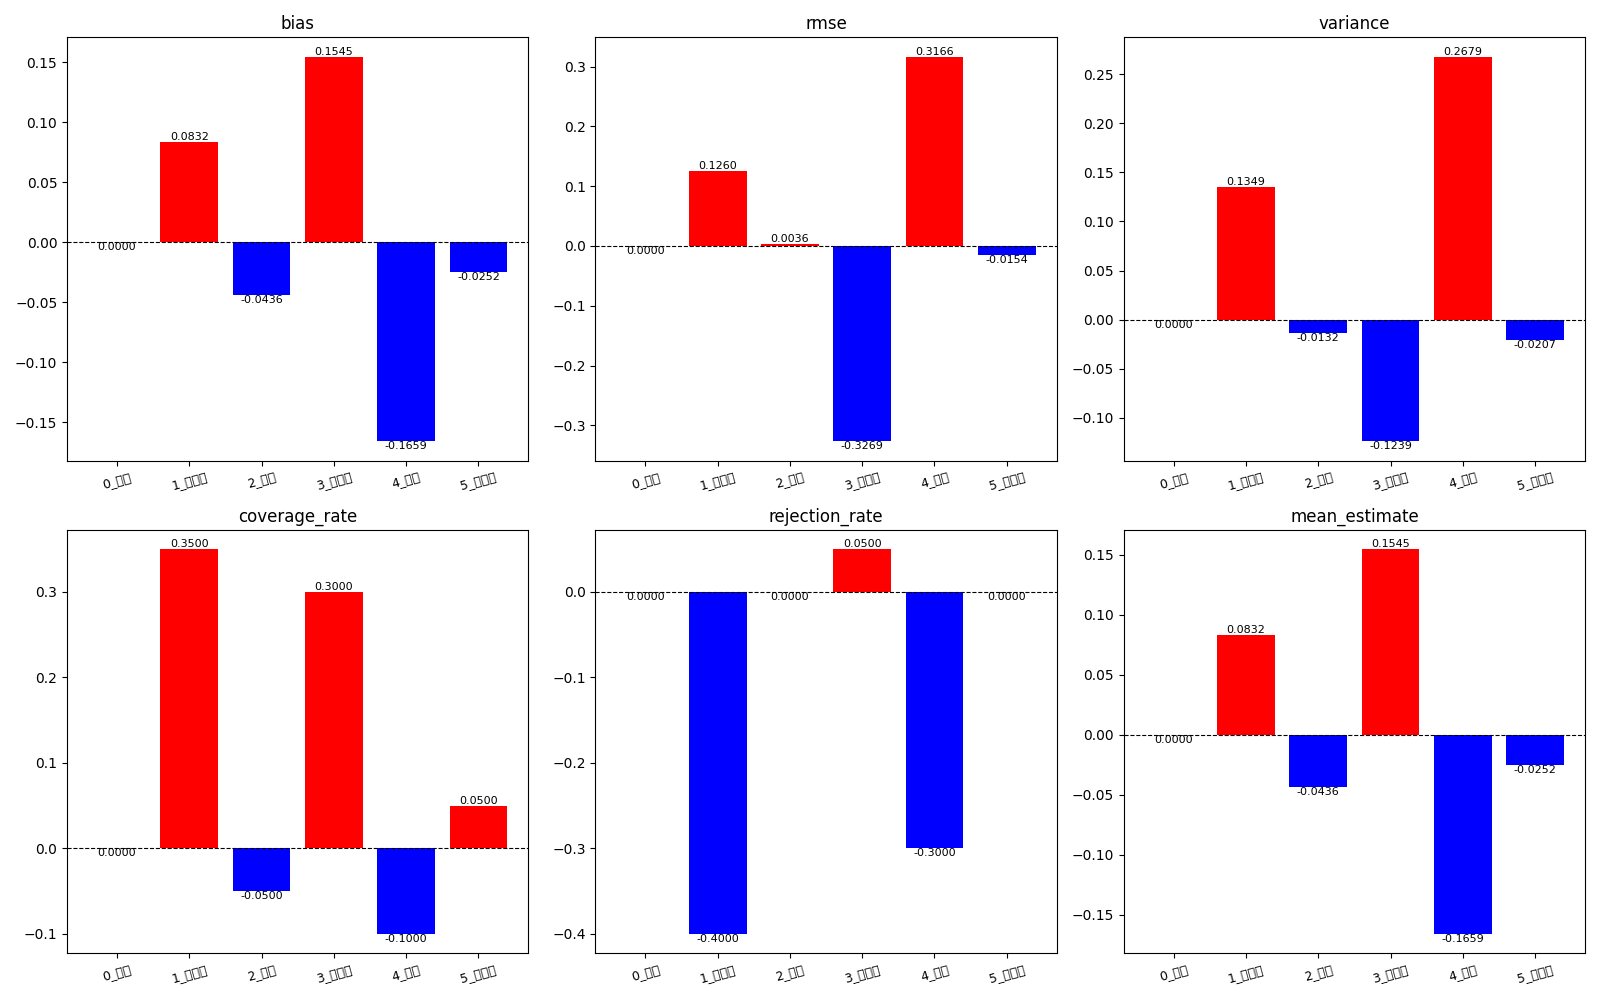
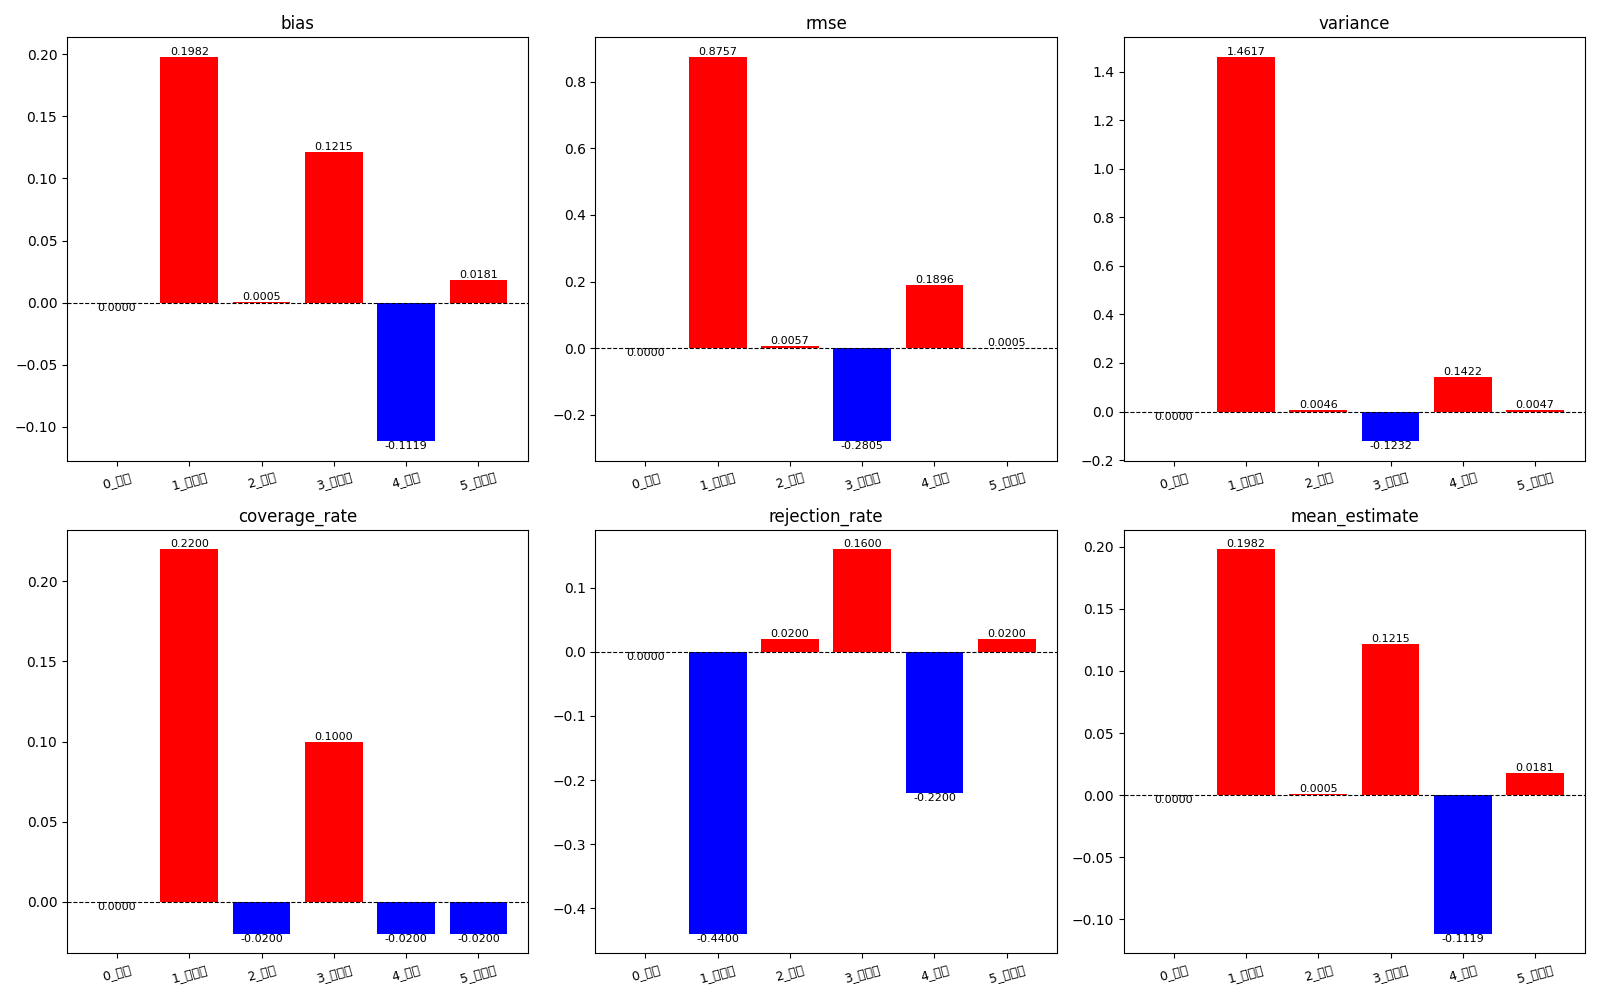
DGP1

diff --git a/DGP_1.py b/DGP_1.py
@@ -26,8 +26,18 @@ def load_twins_X(file_path, n_samples=500, seed=42):
 
 def manual_1_dgp(n_samples=800, seed=60):
     np.random.seed(seed)
-    d = 5  # 设定维度：兴趣度、容忍度 + 3个背景偏好
-    X = np.random.normal(0, 1, size=(n_samples, d))
+    # 1 simply random
+    # d = 5  # 设定维度：兴趣度、容忍度 + 3个背景偏好
+    # X = np.random.normal(0, 1, size=(n_samples, d))
+    # 2
+    interest = np.random.normal(0, 1, size=n_samples)
+    tolerance = np.random.normal(0, 1, size=n_samples)
+
+    gender = np.random.binomial(1, 0.7, size=n_samples) # 假设性别具有倾向性 Assume gender have tendency
+    age = np.random.normal(35, 10, size=n_samples)  # 假设年龄区间 Assume the age range
+    income = 2000 + 150 * age + np.random.normal(0, 500, size=n_samples)  # 假设收入与年龄正相关 Assume income is positively correlated with age
+
+    X = np.vstack([interest, tolerance, gender, age, income]).T
 
     # 标准化特征
     scaler = StandardScaler()

diff --git a/main_4.py b/main_4.py
@@ -213,7 +213,7 @@ def main():
     USE_MANUAL = True  # 切换数据加载模式
     # 载入数据
     if USE_MANUAL:
-        X_real = manual_1_dgp(n_samples=800, seed=60)
+        X_real = manual_1_dgp(n_samples=800, seed=60) # change manual number
     else:
         X_real = load_twins_X('./assets/twins/twin_pairs_X_3years_samesex.csv', n_samples=800, seed=60)
     # 载入配置
